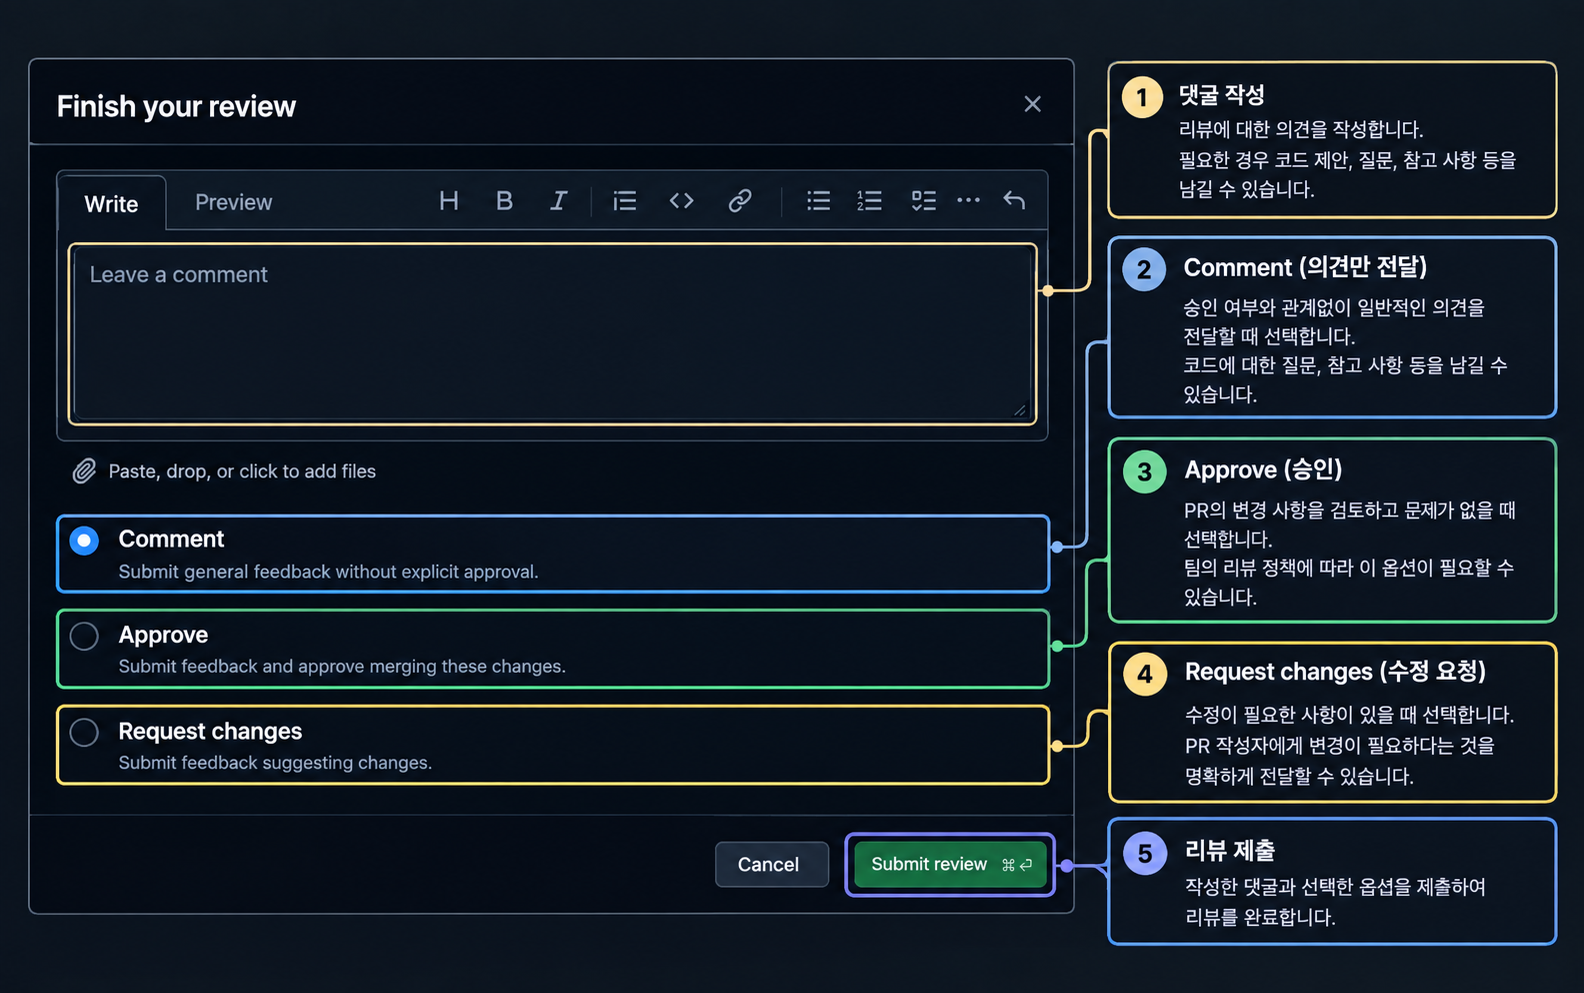
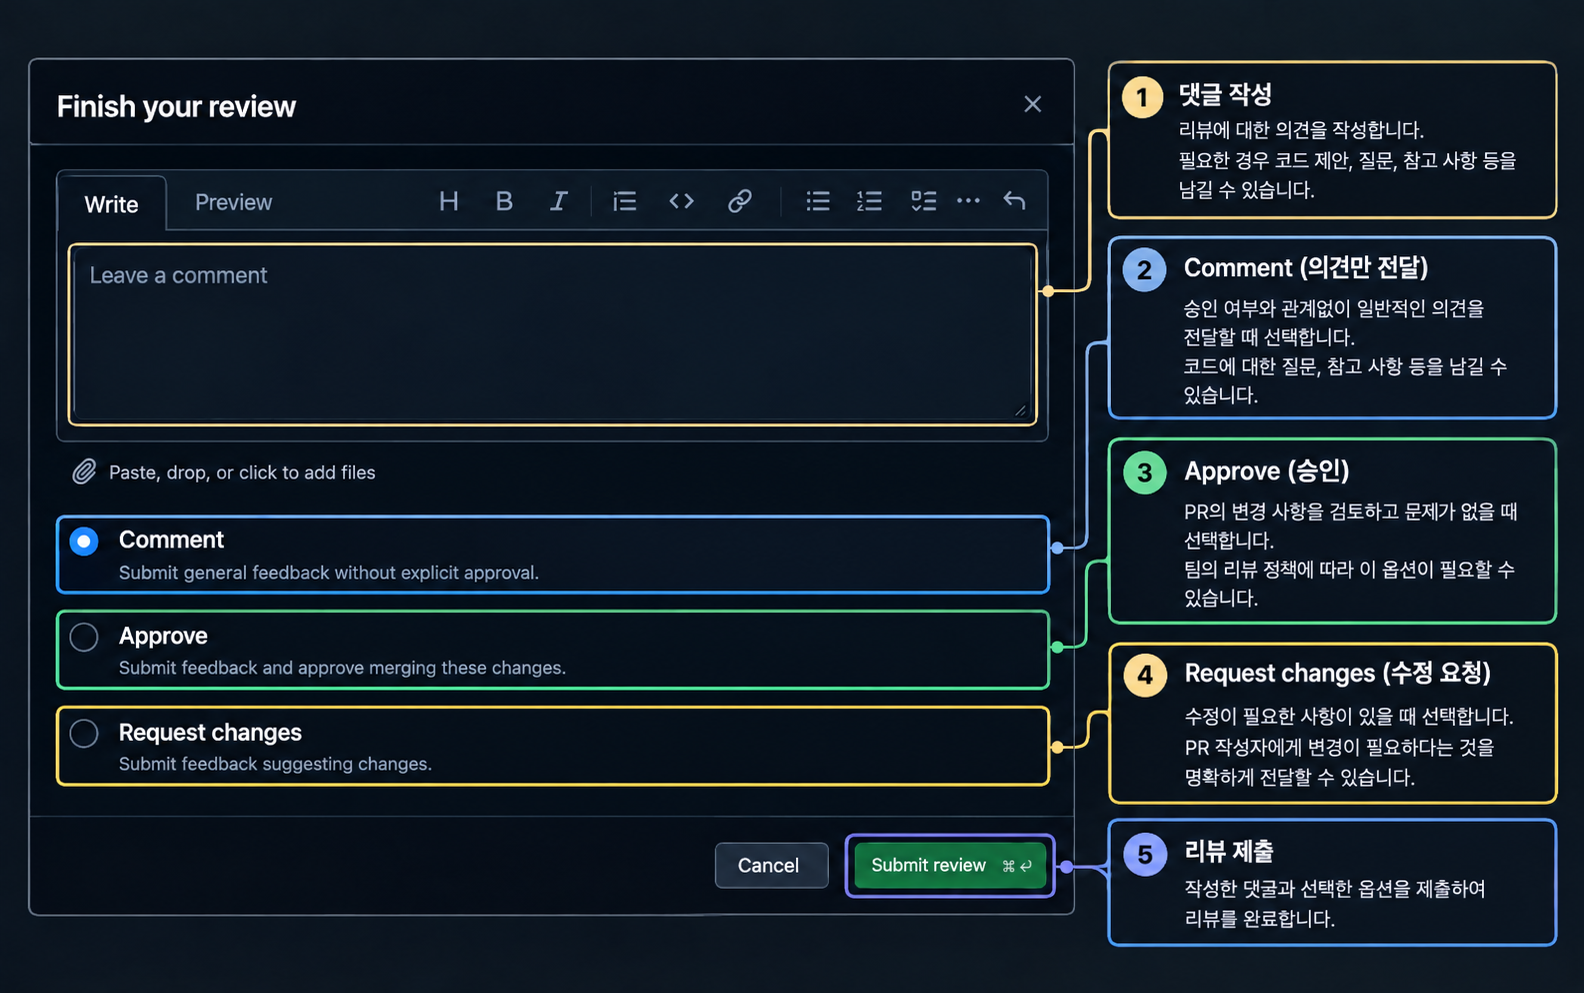
docs: A&I 공통 협업 가이드와 프로젝트 네이밍 정리 (#6)
* docs: 협업 가이드 문체와 리뷰 제출 이미지 정리

* docs: A&I 공통 협업 기준과 프로젝트 네이밍 정리

* docs: Issue 제목과 라벨 안내 문장 정리

diff --git a/docs/engineering/ISSUE_GUIDE.md b/docs/engineering/ISSUE_GUIDE.md
@@ -5,8 +5,6 @@
 
 이 문서는 A&I 프로젝트의 공통 Issue 작성 기준을 안내합니다. 저장소별 자동화·운영 규칙은 해당 프로젝트 README를 따릅니다.
 
-실습 사례로 [MOAMOA Server](https://github.com/Team-AnI/MOAMOA-Server/blob/main/README.md), [MOAMOA Flutter](https://github.com/Team-AnI/MOAMOA-Flutter/blob/main/README.md)의 협업 흐름을 소개합니다. 저장소에 별도 템플릿·규칙이 있다면 해당 프로젝트 규칙을 우선합니다.
-
 ## 1. Issue가 필요한 이유
 
 Issue는 '할 일'뿐 아니라 **왜 필요한지, 누가 맡는지, 언제 완료인지**를 합의하는 공간입니다. 기능 구현, 버그 수정, UI 개선, 테스트, CI, 문서 및 논의도 Issue로 관리할 수 있습니다.
@@ -16,7 +14,7 @@ Issue는 '할 일'뿐 아니라 **왜 필요한지, 누가 맡는지, 언제 완
 ## 2. Issue 만들기
 
 1. 작업할 저장소의 **Issues → New issue**를 엽니다.
-2. 템플릿이 있으면 작업 유형에 맞는 템플릿을 선택합니다. MOAMOA Flutter에는 기능·버그·문서·기타 작업 템플릿이 있습니다. 저장소에 따라 템플릿이 없을 수 있습니다.
+2. 템플릿이 있으면 작업 유형에 맞는 템플릿을 선택합니다. 저장소에 따라 템플릿이 없을 수 있습니다.
 3. 제목과 본문을 작성합니다.
 4. **Assignees**(담당자), **Labels**(작업 분류), 필요한 경우 **Projects / Milestone**을 설정합니다.
 5. Issue 생성 후 번호를 확인합니다.
@@ -44,22 +42,22 @@ Issue 제목의 기본 형태는 다음과 같습니다.
 | `TEST` | 테스트 | `[TEST] 로그인 실패 검증 추가` |
 | `CI` | 자동화 | `[CI] PR 검증 워크플로 추가` |
 
-`DESIGN`은 Flutter README에 명시된 유형입니다. 프로젝트별 Issue 템플릿과 자동 검사 기준이 있다면 이를 우선합니다.
+프로젝트별 Issue 템플릿과 자동 검사 기준이 있다면 이를 우선합니다.
 
 ## 4. Issue 라벨 안내
 
-Issue 제목의 `[TYPE]`은 작업 유형을 표현하고, **Labels는 GitHub에서 분류·검색·필터링하는 태그**입니다. 한 Issue에 여러 라벨을 붙일 수 있으며, 실제 선택 가능한 라벨은 해당 저장소 설정을 따릅니다.
+Issue 제목의 `[TYPE]`은 작업 유형을 표현하고 **Labels는 GitHub에서 분류·검색·필터링하는 태그**입니다. 한 Issue에 여러 라벨을 붙일 수 있으며 실제 선택 가능한 라벨은 해당 저장소 설정을 따릅니다.
 
 | 라벨 | 의미 | 사용 예시 |
 | --- | --- | --- |
-| `enhancement` | 기능 추가 또는 기존 기능 개선 | `[FEAT]` 기능, `[REFACTOR]` 개선, Flutter의 `[DESIGN]` 작업 |
+| `enhancement` | 기능 추가 또는 기존 기능 개선 | `[FEAT]` 기능, `[REFACTOR]` 개선, `[DESIGN]` UI/디자인 작업 |
 | `bug` | 동작 오류·결함 | `[FIX]` 오류 수정 |
 | `documentation` | 문서·가이드·README 변경 | `[DOCS]` 사용법 문서화 |
 | `question` | 설계 결정, 요구사항 등 논의 필요 | 구현 방향 논의 |
 | `help wanted` | 다른 기여자의 도움이 필요함 | 구현 또는 재현 지원 요청 |
 | `good first issue` | 처음 기여하는 팀원에게 적합 | 범위가 작은 문서·버그 작업 |
 
-> 이 표는 MOAMOA Server·Flutter README에 공통으로 설명된 라벨입니다. `enhancement`는 UI 작업에도 쓸 수 있지만, `[TYPE]`과 라벨이 1:1 대응하는 것은 아닙니다. 없는 라벨을 임의로 생성하지 않고 팀과 먼저 합의하세요.
+> `enhancement`는 UI 작업에도 쓸 수 있습니다. Issue 제목의 `[TYPE]`과 GitHub 라벨은 따로 선택합니다. 없는 라벨을 임의로 생성하지 않고 팀과 먼저 합의하세요.
 
 ## 5. 본문 템플릿
 

diff --git a/docs/REPO_NAMING.md b/docs/REPO_NAMING.md
@@ -3,15 +3,15 @@
 이 문서는 A&I Organization에서 레포지토리를 **일관된 규칙**으로 관리하기 위한 네이밍 가이드입니다.
 
 > ✅ 목표  
-> - 레포 이름만 보고도 “기수/용도/팀/서비스”가 바로 식별되게  
+> - 레포 이름으로 용도와 프로젝트를 식별하고, 필요한 경우 기수를 구분하기 쉽게
 > - 검색/정렬/자동화(CI, 템플릿 적용 등) 하기 쉽게
 
 ---
 
 ## 0) 공통 규칙
 
-- 기본 포맷은 **대문자 + 하이픈(-)** 을 사용합니다.
-- `<Period>`, `<Team>`, `<Service>` 값은 **한 번 정하면 기수 동안 고정**합니다.
+- 아래 기수 기반 형식은 **대문자 + 하이픈(-)** 을 사용합니다.
+- 기수 기반 형식의 `<Period>`, `<Team>`, `<Service>` 값은 **한 번 정하면 기수 동안 고정**합니다.
 - 레포명은 “짧고 명확하게”를 우선합니다.
 
 `<Period>` 표기 예시(택 1, 조직 내 통일)
@@ -37,11 +37,15 @@
 
 ## 2) Projects (팀 프로젝트)
 
-### ✅ 규칙 (둘 중 하나)
+### ✅ 규칙
+프로젝트명만 사용할 수 있습니다. 기수나 팀·서비스 구분이 필요하면 아래 형식을 선택할 수 있으며, 접두부는 필수가 아닙니다.
+
 - 팀 단위: `A-AND-I-<Period>-PROJECT-<Team>`
 - 서비스 단위: `A-AND-I-<Period>-PROJECT-<Service>`
 
 ### ✅ 예시
+- `ATTENDANCE`
+- `FOOD-RECOMMENDER`
 - `A-AND-I-4TH-PROJECT-TEAM-A`
 - `A-AND-I-4TH-PROJECT-TEAM-B`
 - `A-AND-I-4TH-PROJECT-ATTENDANCE`

diff --git a/profile/README.md b/profile/README.md
@@ -113,7 +113,7 @@ flowchart LR
 
 2. 참여할 레포 하나 선택하기  
    - `A-AND-I-<Period>-CODE-LAB` 또는  
-   - `A-AND-I-<Period>-PROJECT-<Team>` / `A-AND-I-<Period>-PROJECT-<Service>`
+   - 프로젝트명(예: `ATTENDANCE`, `FOOD-RECOMMENDER`) 또는 선택 형식인 `A-AND-I-<Period>-PROJECT-<Team>` / `A-AND-I-<Period>-PROJECT-<Service>`
 
 3. **첫 PR**로 가볍게 시작하기 (문서/예제/README 개선 추천)
 
@@ -127,7 +127,7 @@ flowchart LR
   - `A-AND-I-<Period>-CODE-LAB` : 실습/과제/예제 모음
 
 - **Projects (팀 프로젝트)**  
-  - `A-AND-I-<Period>-PROJECT-<Team>` 또는 `A-AND-I-<Period>-PROJECT-<Service>` : 팀 프로젝트 저장소
+  - 프로젝트명(예: `ATTENDANCE`, `FOOD-RECOMMENDER`) : 팀 프로젝트 저장소. `A-AND-I-<Period>-PROJECT-<Team>` / `A-AND-I-<Period>-PROJECT-<Service>` 형식은 선택 사항입니다.
 
 - **Docs (가이드/규칙)**  
   - `docs` : 규칙/가이드/회고 아카이브  

diff --git a/docs/engineering/COMMIT_CONVENTION.md b/docs/engineering/COMMIT_CONVENTION.md
@@ -30,7 +30,7 @@
 | `chore` | 빌드·의존성·환경 설정 | `chore: 의존성 업데이트 (#3)` |
 | `ci` | CI/CD 변경 | `ci: PR 검사 추가 (#5)` |
 
-MOAMOA Flutter는 UI 중심 작업에 `design`을, 두 MOAMOA 프로젝트는 파일 이동·삭제 등에 `rename`, `remove`를 사용하기도 합니다. **해당 프로젝트에서 정의한 Type을 우선**합니다.
+`design`, `rename`, `remove` 등 추가 Type은 **해당 프로젝트에서 정의한 경우에 사용**합니다.
 
 ## 3. 작성 시 주의사항
 
